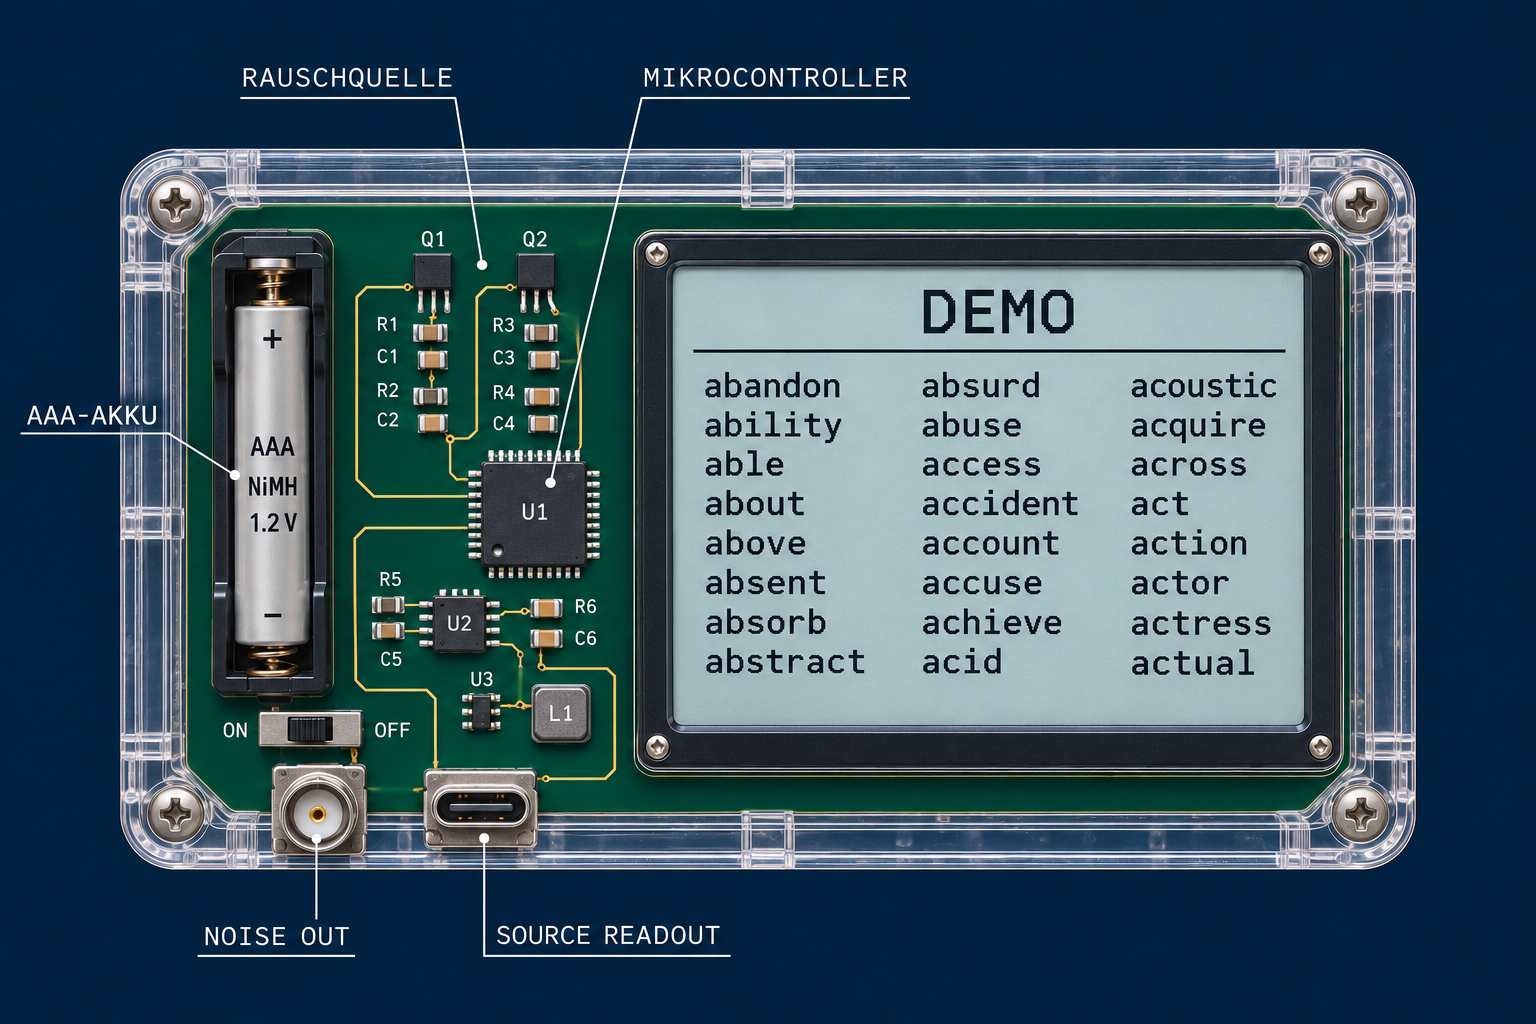
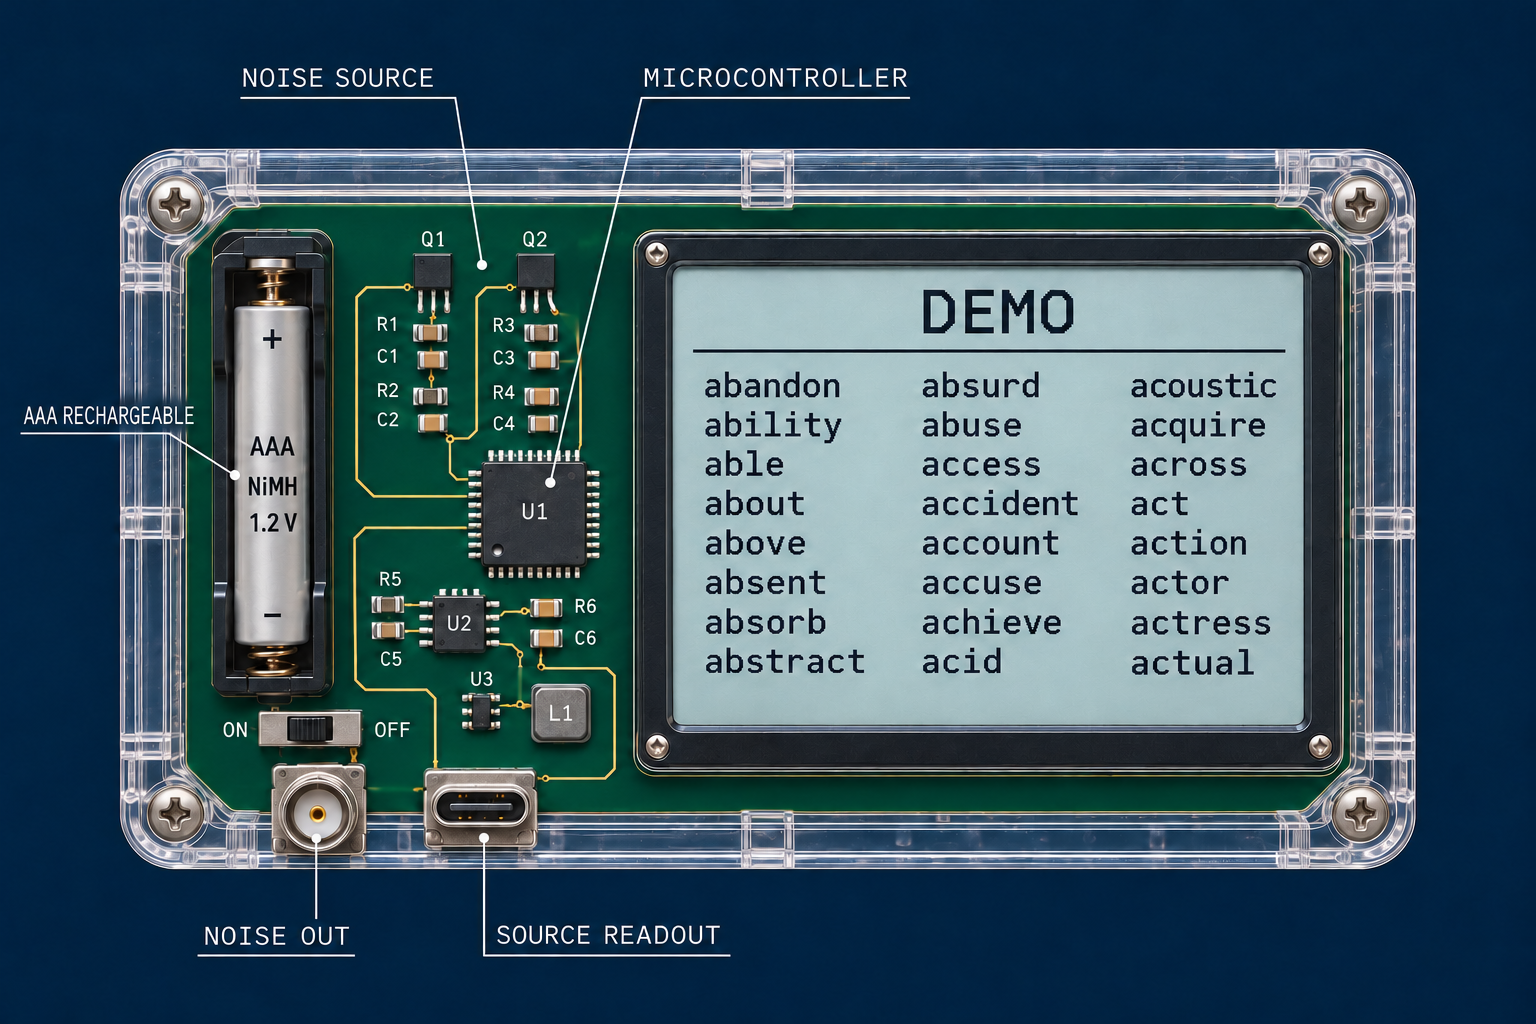
Translate site to English and prepare custom-domain Pages deployment

diff --git a/public/index.html b/public/index.html
@@ -1,33 +1,33 @@
 <!doctype html>
-<html lang="de">
+<html lang="en">
 <head>
 <meta charset="utf-8"><meta name="viewport" content="width=device-width, initial-scale=1">
-<title>random. · Zufall aus weißem Rauschen</title>
-<meta name="description" content="Offene Hardware im Entwurf: weißes Rauschen, sichtbare Platine, 24 Wörter. 200 € Endpreis, 21 € Anzahlung. Ziel: 200 Vorbestellungen bis 31.12.2027.">
+<title>random. · Physical white noise, open hardware</title>
+<meta name="description" content="An open hardware concept: physical white noise, one visible circuit board, 24 seed words. €200 total, €21 deposit. Goal: 200 preorders by 31 December 2027.">
 <meta name="theme-color" content="#0b2238">
-<link rel="icon" href="/favicon.svg" type="image/svg+xml"><link rel="stylesheet" href="/style.css">
-<script type="module" src="/app.js"></script>
+<link rel="icon" href="./favicon.svg" type="image/svg+xml"><link rel="stylesheet" href="./style.css">
+<script type="module" src="./app.js"></script>
 </head>
 <body>
-<a class="skip" href="#main">Zum Inhalt</a>
+<a class="skip" href="#main">Skip to content</a>
 <div class="sheet">
-<header><a class="wordmark" href="/" aria-label="random Startseite">random.</a><span class="drawing-label">OFFENE HARDWARE / KONZEPT</span></header>
+<header><a class="wordmark" href="./" aria-label="random home">random.</a><span class="drawing-label">OPEN HARDWARE / CONCEPT</span></header>
 <main id="main">
 <div class="copy">
 <h1 lang="en">Get an open-source Bitcoin seed generator powered by physical white noise.</h1>
-<p class="lead">Eine Platine, die du sehen kannst.<br>24 Wörter direkt auf dem Display.</p>
-<p class="specs">Geplant: 1 × AAA-Akku · Oszilloskop-Ausgang<br>Quellcode auslesbar · Open Source</p>
-<div class="purchase"><p class="price">200 € <span>Endpreis pro Gerät</span></p>
-<button id="preorder" type="button"><span>Für 21 € vorbestellen</span><span class="paypal" aria-label="mit PayPal">PayPal</span></button>
-<p class="deposit">21 € Anzahlung, später 179 € Restbetrag.</p>
-<p id="checkout-status" role="status">Weiter zu PayPal · 21 € Anzahlung.</p></div>
-<div class="campaign"><p class="target">200 Vorbestellungen bis 31.12.2027</p>
-<div class="countdown" role="timer" aria-label="Verbleibende Zeit bis Ende 31. Dezember 2027, Berliner Zeit"><div><strong id="days">—</strong><span>Tage</span></div><span class="colon" aria-hidden="true">:</span><div><strong id="minutes">—</strong><span>Minuten</span></div><span class="colon" aria-hidden="true">:</span><div><strong id="seconds">—</strong><span>Sekunden</span></div></div>
-<p class="refund">Ziel nicht erreicht? Du bekommst deine 21 € vollständig zurück.</p>
+<p class="lead">One circuit board you can inspect.<br>24 words on the device itself.</p>
+<p class="specs">Planned: 1 × AAA rechargeable · Noise output<br>Read-only source interface · Open source</p>
+<div class="purchase"><p class="price">€200 <span>Total price per device</span></p>
+<button id="preorder" type="button"><span>Preorder for €21</span><span class="paypal" aria-label="with PayPal">PayPal</span></button>
+<p class="deposit">€21 deposit · €179 later · Target: spring 2028.</p>
+<p id="checkout-status" role="status">Continue to PayPal · €21 deposit.</p></div>
+<div class="campaign"><p class="target">200 preorders by 31 December 2027</p>
+<div class="countdown" role="timer" aria-label="Time remaining until the end of 31 December 2027, Berlin time"><div><strong id="days">—</strong><span>Days</span></div><span class="colon" aria-hidden="true">:</span><div><strong id="minutes">—</strong><span>Minutes</span></div><span class="colon" aria-hidden="true">:</span><div><strong id="seconds">—</strong><span>Seconds</span></div></div>
+<p class="refund">If we miss the goal, your €21 deposit is refunded in full.</p>
 </div>
 </div>
-<figure><img src="/blueprint.png?v=front-2" width="1536" height="1024" fetchpriority="high" alt="CAD-Konzept in gerader Frontansicht: links wenige elektronische Bauteile und AAA-Akku, rechts Display mit 24 Demo-Wörtern. Transparente Hülle, Oszilloskop-Ausgang und separater Quellcode-Leseanschluss."><figcaption>Konzeptentwurf · Demo-Wörter, nicht als Wallet verwenden.</figcaption></figure>
+<figure><img src="./blueprint.png?v=en-3" width="1536" height="1024" fetchpriority="high" alt="Front-view concept: a few electronic components and an AAA rechargeable cell on the left, a 24-word demo display on the right. Clear enclosure, oscilloscope output and separate read-only source interface."><figcaption>Concept illustration · Demo words. Never use for a wallet.</figcaption></figure>
 </main>
-<footer><div class="origin"><span class="flag" aria-hidden="true"><i></i><i></i><i></i></span><div><strong>Made in Germany <span>· geplant</span></strong><span>By German engineers · Hochfrequenztechnik</span></div></div><p class="validation">Entwicklung ab 200 Vorbestellungen. <br>Für Wallets erst nach unabhängiger Prüfung.</p><nav aria-label="Rechtliches"><a href="/legal#impressum">Impressum</a><a href="/legal#datenschutz">Datenschutz</a><a href="mailto:elias@eliaspfeffer.de">Kontakt</a></nav></footer>
+<footer><div class="origin"><span class="flag" aria-hidden="true"><i></i><i></i><i></i></span><div><strong>Made in Germany <span>· planned</span></strong><span>By German engineers · Radio-frequency engineering</span></div></div><p class="validation">Development starts at 200 preorders.<br>Wallet use requires independent validation.</p><nav aria-label="Legal"><a href="./legal.html#legal-notice">Legal notice</a><a href="./legal.html#privacy">Privacy</a><a href="mailto:elias@eliaspfeffer.de">Contact</a></nav></footer>
 </div>
 </body></html>

diff --git a/public/legal.html b/public/legal.html
@@ -1,3 +1,7 @@
-<!doctype html><html lang="de"><head><meta charset="utf-8"><meta name="viewport" content="width=device-width, initial-scale=1"><title>Rechtliches · random.</title><link rel="stylesheet" href="/style.css"></head><body class="legal-page"><a href="/">← Zurück zu random.</a><section class="legal wrap" id="impressum"><h2>Impressum</h2><p>Elias Pfeffer · <a href="mailto:elias@eliaspfeffer.de">elias@eliaspfeffer.de</a></p><p id="business-address">Vorschau: Anbieteranschrift wird vor Veröffentlichung ergänzt.</p></section>
-<section class="legal wrap" id="datenschutz"><h2>Datenschutz</h2><p>Verantwortlich: Elias Pfeffer, Kontaktdaten im Impressum. Bei Freischaltung der Warteliste speichern wir deine E-Mail-Adresse, Einwilligungsversion und den Zeitpunkt der Eintragung ausschließlich für eine Nachricht zum Vorbestellstart. Grundlage ist deine Einwilligung (Art. 6 Abs. 1 lit. a DSGVO). Widerruf und Löschung: E-Mail an elias@eliaspfeffer.de.</p><p>Hosting ist auf einem Server in der EU geplant. Technische Verbindungsdaten werden zur Auslieferung und Missbrauchsabwehr verarbeitet (Art. 6 Abs. 1 lit. f DSGVO). Für die Eintragsbegrenzung werden IP-Adressen nur als täglich wechselnder Hash für höchstens zwei Tage gespeichert. Wartelistendaten werden nach Versand der Startnachricht oder spätestens nach zwölf Monaten innerhalb des nächsten stündlichen Löschlaufs gelöscht. Kein Tracking, keine Werbecookies, keine extern geladenen Schriften.</p><p>Du hast Rechte auf Auskunft, Berichtigung, Löschung, Einschränkung, Datenübertragbarkeit und Beschwerde bei einer Datenschutzaufsichtsbehörde. Zahlungsdaten werden derzeit nicht erhoben.</p></section>
+<!doctype html>
+<html lang="en"><head><meta charset="utf-8"><meta name="viewport" content="width=device-width, initial-scale=1"><title>Legal notice & privacy · random.</title><link rel="stylesheet" href="./style.css"></head>
+<body class="legal-page"><a href="./">← Back to random.</a>
+<section class="legal" id="legal-notice"><h1>Legal notice</h1><p>Elias Pfeffer<br>Pestalozzistraße 65<br>72762 Reutlingen<br>Germany</p><p><a href="mailto:elias@eliaspfeffer.de">elias@eliaspfeffer.de</a></p></section>
+<section class="legal" id="preorders"><h2>Preorder terms</h2><p>random. is a hardware concept. There is no finished device or independently validated entropy source yet. The planned total price is €200 per device. The €21 preorder deposit is credited towards that price, leaving €179 payable later.</p><p>Development starts when 200 paid preorders have been received. The current campaign deadline is the end of 31 December 2027, Europe/Berlin. If fewer than 200 paid preorders are reached by that deadline, the seller will refund each deposit in full. This is the seller’s promise, separate from PayPal’s protection programmes.</p><p>Target delivery: spring 2028, subject to reaching the preorder goal and completing development and independent validation. This is a development target, not a guarantee that the hardware already exists. The remaining €179 will not be charged automatically. Delivery arrangements and any shipping charges will be agreed before the remaining balance is collected. Statutory consumer rights remain unaffected; contact the seller at the address or email above for cancellation or refund requests.</p></section>
+<section class="legal" id="privacy"><h2>Privacy</h2><p>Controller: Elias Pfeffer, at the address above. Contact: <a href="mailto:elias@eliaspfeffer.de">elias@eliaspfeffer.de</a>.</p><p>This website does not use analytics, advertising cookies, external fonts or a mailing-list form. Technical connection data is processed by the hosting provider to deliver the website and maintain security. The static website is hosted by GitHub Pages, provided by GitHub, Inc. See the <a href="https://docs.github.com/en/site-policy/privacy-policies/github-general-privacy-statement">GitHub privacy statement</a> for information about its handling of connection data, including IP addresses. Hosting may involve processing outside the EU.</p><p>Selecting the preorder button opens PayPal. PayPal processes checkout, payment and contact or shipping information under its <a href="https://www.paypal.com/de/legalhub/paypal/privacy-full">privacy statement</a>. The seller receives the transaction and customer details needed to manage an order. This website does not receive card details and does not treat opening PayPal as a completed purchase.</p><p>Order information is used to administer purchases, communicate about fulfillment and process refunds, and is retained as required for applicable accounting obligations. You can contact the controller regarding access, correction, deletion, restriction, objection and data portability where applicable. You may lodge a complaint with a data protection supervisory authority.</p></section>
 </body></html>

diff --git a/public/app.js b/public/app.js
@@ -6,11 +6,11 @@ function tick() {
   const time = remaining(Date.now());
   for (const key of ['days', 'minutes', 'seconds']) document.getElementById(key).textContent = String(time[key]).padStart(2, '0');
   button.disabled = time.ended;
-  if (time.ended) status.textContent = 'Die Vorbestellfrist ist abgelaufen.';
+  if (time.ended) status.textContent = 'The preorder deadline has passed.';
 }
 button.addEventListener('click', () => {
   if (remaining(Date.now()).ended) { tick(); return; }
-  status.textContent = 'Weiterleitung zu PayPal …';
+  status.textContent = 'Opening PayPal …';
   window.location.assign(checkoutUrl);
 });
 tick();

diff --git a/server.py b/server.py
@@ -22,6 +22,7 @@ FILES = {'/': ('index.html', 'text/html; charset=utf-8'),
          '/blueprint.png': ('blueprint.png', 'image/png'),
          '/countdown.mjs': ('countdown.mjs', 'text/javascript; charset=utf-8'),
          '/legal': ('legal.html', 'text/html; charset=utf-8'),
+         '/legal.html': ('legal.html', 'text/html; charset=utf-8'),
          '/favicon.svg': ('favicon.svg', 'image/svg+xml')}
 
 

diff --git a/PRODUCT.md b/PRODUCT.md
@@ -12,3 +12,5 @@ User-specified campaign: €200 final price, €21 credited deposit, 200 paid pr
 Single hero, text left/device right, CAD blueprint style. Minimal natural German text. Apple Design and Impeccable. Device illustration clearly marked concept and demonstration words.
 ## Evidence on Hand
 Existing local Python service and Lovable preview. Lovable paused for exhausted credits on 16 November 2026. Local preview continues existing authorized local work; no production deployment or paid upgrade.
+
+17 November correction: seller Elias Pfeffer, Pestalozzistraße65,72762 Reutlingen,Germany (postal code verified with DAAD). Target delivery spring2028, confirmed by user. Entire website English. User explicitly requests GitHub Pages and random.eliaspfeffer.de despite previously disclosed Pages commercial-use limitation.
